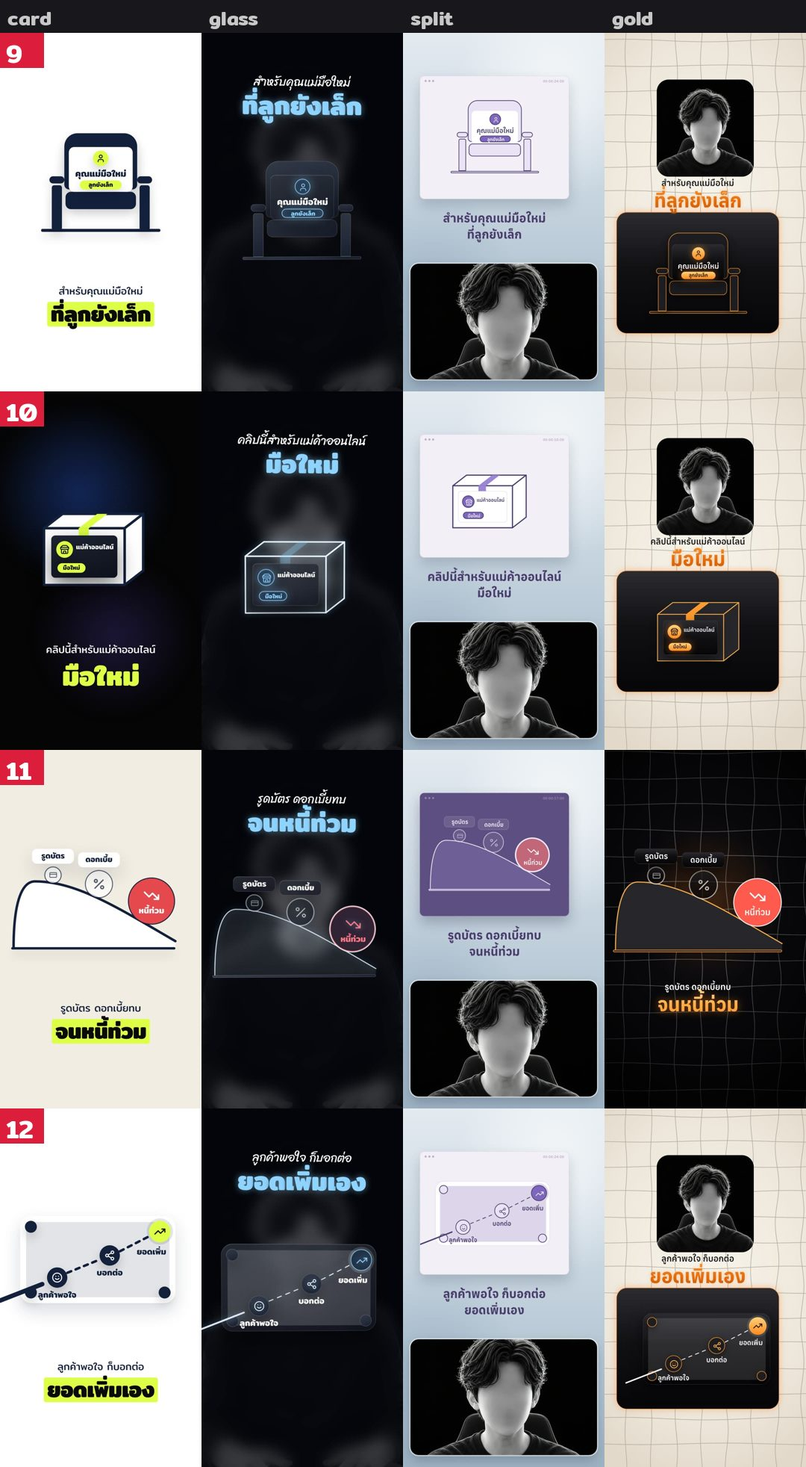
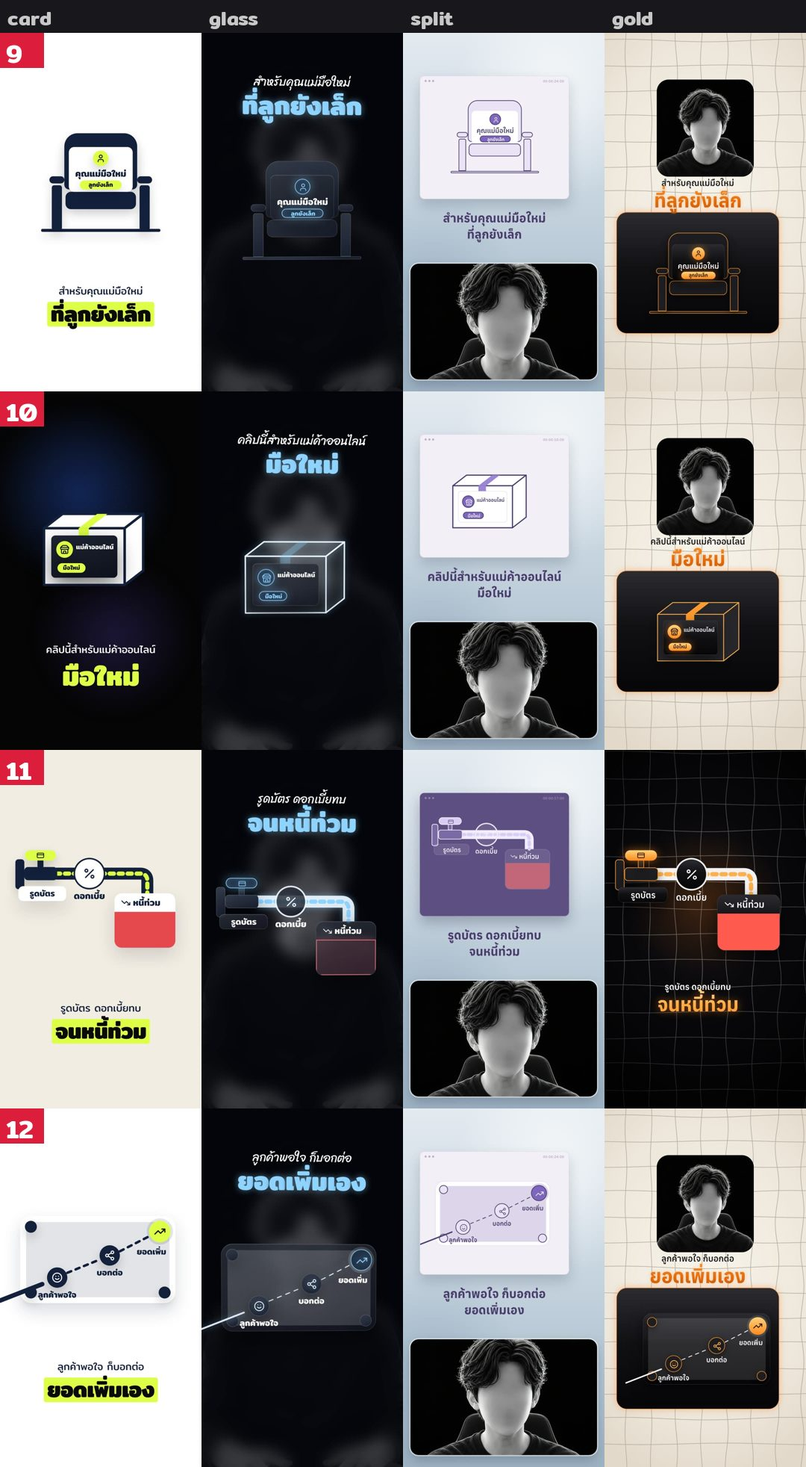
Round 10: keep the tap and pipe, drop the seesaw (it looked like the scale)
Claude-Session: https://claude.ai/code/session_014abtgu7QfzJRsiTAHFd39E

Changed region(s): [[0.0, 0.5591, 0.4889, 0.6833], [0.7639, 0.5591, 0.9778, 0.6522], [0.5194, 0.5591, 0.7028, 0.6212]]

diff --git a/cutpack/DECISIONS.md b/cutpack/DECISIONS.md
@@ -184,7 +184,7 @@
   - **ภาพนิ่งรอบที่ 10 ส่งแล้ว รอ Friend เลือก (2026-11-11):** 20 ร่าง × 4 สไตล์ (`engine/uni/sketches/r10.js`, แผ่น `library/uni-test/round10_sketches_1.jpg` … `_5.jpg`) ไอเดีย: ขั้นตอน = ตัวต่อซ้อนเป็นตึก (`tower`) · เบี้ยบนกระดานเกม (`board`) / คำถาม = โพลในสตอรี่ (`poll`, ต้องมี options 2 ตัว) · หลอดไฟมี ? (`bulb`) / คำเตือน = ป้ายระวังพื้นลื่น (`wetfloor`) · เหยื่อบนเบ็ดตกปลา (`hook`) / เวลา = นาฬิกาจับเวลา (`stopwatch`) · ต้นไม้จนออกผล (`tree`) / คน = เก้าอี้มีป้ายจอง (`seat`) · กล่องพัสดุจ่าหน้า (`parcel`) / เหตุกับผล = ก้อนหิมะกลิ้งลงเนิน (`snowball`) · ลูกพูลชนลงหลุม (`pool`) / นิยาม = บัตรคำร้อยห่วง (`flash`) · เครื่องพิมพ์ฉลาก (`labeler`) / ไล่รายการ = โฟลเดอร์แอป (`folder`) · กล่องเครื่องมือถาดกาง (`toolbox`) / เล่าเหตุการณ์ = ม่านเวที (`curtain`) · วิดีโอย้อนกลับ (`rewind`) / ความรู้สึก = ตัวคนเติมสี (`fill`) · แถบเลื่อนอารมณ์ (`slider`) · ตารางที่ส่ง Friend ก่อนทำภาพมี "กับดักหนู" Claude เปลี่ยนเป็นเบ็ดตกปลาเพราะภาพนิ่งของกับดักมองไม่ออก (บอก Friend แล้ว)
   - **ต้นไม้ (B09 `tree`) Friend 2026-11-11: "ต้นไม้มันไม่เหมือนต้นไม้เลย ตั้งใจทำหน่อย"** → วาดใหม่แล้ว: พุ่มใบหยักสีเน้น ลำต้นโคนบานแตกกิ่ง ผลกลมมีขั้วกับใบ · Claude ตรวจร่างอื่นด้วยวิธีเดียวกัน (ปิดชื่อแล้วดูว่าเห็นเป็นอะไร) เจออีก 2 ร่างที่ดูไม่ออก วาดใหม่ด้วย: เก้าอี้ (`seat`) เป็นเก้าอี้โรงหนังมีพนักพิง เบาะ ที่วางแขน · กล่องเครื่องมือ (`toolbox`) มีหูหิ้ว แขนถาดคู่ขนานกับหมุด · ส่งแผ่น 2 3 4 ใหม่ให้ Friend ดู รอคำตอบ (LESSONS 45)
   - **แก้อีก 11 ข้อ (Friend 2026-11-11 ถามว่า "มีอันไหนที่คิดว่ายังไม่ดีพออีกมั้ย" Claude เสนอ 11 ข้อพร้อมวิธีแก้ Friend: "แก้เลย"):** ดูไม่ออก = 11 ก้อนหิมะ (วาดเนินเขามีหิมะ รอยกลิ้งกว้างขึ้น) · 1 ตัวต่อ (ปุ่มทุกก้อน ใหญ่ขึ้น เหลื่อมกัน) · 16 กล่องเครื่องมือ (แก้อีกรอบ ถ้ายังไม่ชัดเสนอไอเดียอื่น) · 2 กระดานเกม (ใส่แผ่นกระดานกับทางเดิน) / ภาพเล็กโล่ง = 3 โพล · 18 วิดีโอย้อนกลับ · 20 แถบเลื่อนอารมณ์ · 6 เบ็ดตกปลา (ขยายให้เต็มกรอบ) / ของเยอะหรือคล้ายแบบเดิม = 12 โต๊ะพูล (ลดของ ผลไปอยู่ที่หลุม) · 15 โฟลเดอร์ (ใส่หน้าจอมือถือ) · 13 บัตรคำ (ห่วงกับบัตรซ้อนเด่นขึ้น) → **แก้ครบ 11 ข้อแล้ว** ตัวตรวจสีผ่านทั้ง 4 สไตล์ ส่งแผ่น 1–5 ใหม่ให้ Friend รอเลือกว่าเก็บ/ลบข้อไหน
-  - **ลบก้อนหิมะ (B12 `snowball`) Friend 2026-11-11 ดูฉบับแก้แล้ว: "ไม่ชอบอันนี้ design ใหม่ครับ"** → ลบออกจาก `sketches/r10.js` ห้ามทำกลับมา · ออกแบบร่างเหตุกับผลใหม่แทน 1 ร่าง (Claude ทำภาพให้เลือก 2 แบบ) → ทำแล้ว แผ่น `library/uni-test/round10_b12_choice_1.jpg`: แบบ 1 กระดานหก (`seesaw`) ของหล่นลงฝั่งหนึ่ง ดีดอีกชิ้นลงตะกร้า · แบบ 2 ก๊อกน้ำกับท่อ (`pipe`) น้ำไหลผ่านวาล์วไปเติมแท็งก์ (ผลไม่ดีเป็นน้ำสีแดง = ท่วม) · รอ Friend เลือก
+  - **ลบก้อนหิมะ (B12 `snowball`) Friend 2026-11-11 ดูฉบับแก้แล้ว: "ไม่ชอบอันนี้ design ใหม่ครับ"** → ลบออกจาก `sketches/r10.js` ห้ามทำกลับมา · ออกแบบร่างเหตุกับผลใหม่แทน 1 ร่าง (Claude ทำภาพให้เลือก 2 แบบ) → ทำแล้ว แผ่น `library/uni-test/round10_b12_choice_1.jpg`: แบบ 1 กระดานหก (`seesaw`) ของหล่นลงฝั่งหนึ่ง ดีดอีกชิ้นลงตะกร้า · แบบ 2 ก๊อกน้ำกับท่อ (`pipe`) น้ำไหลผ่านวาล์วไปเติมแท็งก์ (ผลไม่ดีเป็นน้ำสีแดง = ท่วม) · Friend ถามว่า "ไม้กระดก มันซ้ำกับตราชั่งมั้ย" Claude เทียบแล้วซ้ำ (ร่างเล็กของตาชั่ง B03 `scale` เป็นไม้เอียงบนสามเหลี่ยมเหมือนกัน และคนดูอาจอ่านเป็นการเปรียบเทียบ) **Friend 2026-11-11: "ตัดกระดานหก เก็บก๊อกน้ำ"** → ข้อ 11 ของรอบนี้คือก๊อกน้ำ (`pipe`) · ลบกระดานหก (`seesaw`) แล้ว ห้ามทำกลับมา และห้ามทำร่างไม้เอียงบนจุดหมุนในหมวดอื่นนอกจากเปรียบเทียบ
 - **B14 ประโยคเด็ดมีภาพด้วย (Friend 2026-11-08: "ทำ B14 แบบมี motion graphics ในเลโก้เลยครับ"):** เดิมระบบเลโก้ตั้งให้ B14 เป็นตัวหนังสือล้วน (Claude ตั้งเอง ไม่ได้มาจาก Friend) ตอนนี้มีร่างเหมือนหมวดอื่น ใบประกอบช่องเดียว `idea {icon, label?}` (ใจความที่อยากให้จำ ป้าย 1–2 คำ) ประโยคอยู่ในซับเท่านั้น
 - **กฎการจัดวางและจังหวะของร่าง (Friend 2026-11-08 หลังดูรอบที่ 3):** ใช้กับทุกร่างต่อจากนี้ (1) ของที่เชื่อมสองสิ่ง (จุดความคิด เส้น ลูกศร) ต้องอยู่บนแนวตรงระหว่างสองสิ่งนั้นพอดี "ไอคอนมันต้องตรงกับจุดสิ" (2) แสง วงกระเพื่อม และคำ ที่เป็นของสิ่งที่กำลังเคลื่อน ต้องขึ้นหลังสิ่งนั้นมาถึงที่แล้ว "วงกลมขึ้นมาก่อนที่ไอคอนจะเลื่อนขึ้นไปได้ไง" (3) เครื่องหมายระหว่างสองสิ่ง (=, →) อยู่กึ่งกลางช่องว่างระหว่างสองสิ่ง (4) คำใต้ไอคอนอยู่กึ่งกลางไอคอน และคำของของในแถวเดียวกันอยู่บรรทัดเดียวกัน (คำกึ่งกลางใน kit ใช้กล่องกว้างจัดกลาง ไม่ใช้ transform ที่ท่าเข้าเขียนทับ) (5) คลื่นหรือวงกระเพื่อมรอบของชิ้นไหน ต้องเป็นทรงเดียวกับชิ้นนั้น (การ์ดสี่เหลี่ยมมุมมนก็เป็นสี่เหลี่ยมมุมมน ปุ่มก็ทรงปุ่ม ของกลมก็วงกลม) ออกจากขอบของชิ้นนั้นจากด้านหลัง ไม่ผ่านไอคอนหรือคำ และพุ่งออกเร็วแล้วจาง (Friend: "Effect วงกลมมันแปลกๆอะ" กับวงกลมที่วิ่งผ่านการ์ดพลิก) ใช้ `R1.ripple` วงกลม `R1.pulse` ใช้เฉพาะแรงกระแทกที่ไม่ใช่ของชิ้นไหน (โดมิโนล้มถึงพื้น ตราประทับลง แสงไฟเตือน) (6) ไอคอนที่เปลี่ยนเป็นสีเน้น (ติดไฟ) ต้องเห็นไอคอนตลอด ไม่จางไขว้จนไอคอนกลืนกับพื้น ใช้ `LG.lightUp` (การ์ดทึบโผล่กลางแล้วขยายทับ) ในร่างใหม่ทุกร่าง ร่างเก่าที่ใช้ `LG.light` คงไว้ (Friend 2026-11-08: ร่างเก่า "ตามนุษย์มองแทบไม่ทันครับ" แต่ "อันต่อๆไปที่จะทำในอนาคตก็แก้ปัญหานี้ด้วยนะ") (7) ของที่ซ้อนแทนของเดิม (ไอคอนติดไฟ คำตอบแทนฟองคำถาม) ต้องอยู่ตำแหน่งเดียวกัน ขนาดเดียวกัน และขยับพร้อมกันพอดี ของเดิมต้องไม่โผล่เป็นขอบ ถ้าของล่างลอยขึ้นลง ของบนต้องลอยเหมือนกัน หรือเอาของล่างออกเมื่อถูกบังหมดแล้ว (Friend 2026-11-08: "ไอคอนมันเหลื่อมๆนิดนึงเหมือนมันทิ้งขอบสีขาวไว้") (8) สัญลักษณ์สีแดง (ตราห้าม ป้ายเตือน กากบาท) ต้องไม่อยู่บนของที่เป็นสีแดง ของต้องเป็นสีปกติของร่าง ให้สัญลักษณ์เป็นสีแดงอย่างเดียว (Friend 2026-11-08: "สัญลักษณ์มันเป็นสีเดียวกับไอคอนซึ่งมันจะทำให้ไม่สวย") โค้ด: `calm()` ใน `scenes/cats.js` เปลี่ยนโทนแดงที่ AI ใส่ให้ของเป็นสีปกติ (`main`) ในหมวดที่ร่างมีสัญลักษณ์แดง (B03 B04 B07) (10) สีของทุกชิ้นต้องไม่กลืนกับพื้นข้างหลัง สีเดียวกันหรือคล้ายกันจนมองยากก็ไม่ได้ (Friend 2026-11-08: "ตอนออกแบบให้ดูเรื่องสีด้วยอย่าให้มันกลืนกัน สีที่มันคล้ายๆกันแล้วทำให้มองยากก็ไม่ได้เหมือนกัน") ตรวจด้วย `check_contrast.js` (11) ของโปร่งแสงที่ต่อกัน (ถนนที่ตัดกัน) ต้องเป็นเนื้อเดียว ไม่เห็นรอยซ้อน (Friend 2026-11-10: "ไม่อยากให้เห็นความทับซ้อนของเส้นถนนอะ ทำให้มันเป็นเนื้อเดียวกันได้ไหม") (12) ของที่แบ่งเป็นสองส่วน (รูปฉีก) ไม่มีเศษของอีกส่วนติดมาที่รอยแบ่ง (Friend 2026-11-10: "มันมีขอบสีขาวๆ ติดมานิดนึง") (13) ร่างเดียวกันต้องหน้าตาเหมือนกันทุกสไตล์ ลวดลายที่หายไปในบางสไตล์ใช้ไม่ได้ (Friend 2026-11-10: "ทำไมตะกร้ามันไม่เหมือนอีก 2 สไตล์") (14) ของที่วางบนของอีกชิ้นต้องสีไม่กลืนกันในทุกสไตล์ (Friend 2026-11-10: "สีไอคอนกับตะกร้ามันกลืนกัน") (15) เส้นวาดครั้งเดียว ไม่มีเส้นขอบซ้อนกันหลายชั้น โดยเฉพาะสไตล์กระจก (Friend 2026-11-10: "สไตล์ 2 ดูเรื่องเส้นด้วย") (9) ตาชั่ง: ฝั่งที่ชนะเป็นสีเน้น ฝั่งที่แพ้เป็นสีปกติ เมื่อ AI ไม่ได้กำหนดสีเอง (Friend 2026-11-08: "แก้ตราชั่ง" เดิมฝั่งซ้ายเป็นสีเน้นเสมอ)
 - **สไตล์แบ่งจอ จังหวะคนพูดย่อลงกรอบล่าง (Friend 2026-11-08: "แก้ไขจังหวะที่คลิปย่อลงมาด้านล่างหน่อยครับ"):** กรอบวิ่งตามขอบวิดีโอที่กำลังย่อ (ไม่รอที่จุดสุดท้ายแล้วตัดผ่านหน้า), หน้าต่างกับซับขึ้นหลังหน้าคนพูดลงพ้นตำแหน่งของมันแล้ว และหายก่อนคนพูดขยายกลับ ห้ามมีของทับหน้าระหว่างย่อหรือขยาย (`styles/split.js`)

diff --git a/cutpack/HANDOFF.md b/cutpack/HANDOFF.md
@@ -41,7 +41,7 @@ git checkout -B <สาขาที่ session ใหม่ได้รับ> o
 2. **คิดไอเดียตามวิธีออกแบบฉากใน skill `talking-head-motion`** (`.claude/skills/talking-head-motion/SKILL.md` หัวข้อ "หลักที่ทำให้งานออกมาโปร" และ `references/scene-library.md` หัวข้อ "ออกแบบฉากใหม่"): ของหลัก 1 ชิ้น (การ์ด รูปทรงเส้น หรือหน้าจอแอป) + ขยับที่มีความหมาย 1 อย่าง (เติม วาด ซ้อน หมุน) ตรงคำสำคัญแล้วค้างนิ่ง · ห้ามของตกแต่ง · ห้ามวนซ้ำเร็ว · "ถ้าปิดเสียง ภาพนี้ยังสื่อไหม"
 3. **รสนิยมของ Friend** (Friend ยืนยัน "โอเค") **ใส่คนในร่างได้** (Friend 2026-11-11: "ไม่เอาคน" ใช้แค่กับไอเดียเติมรอบที่ 9 ไม่ใช่รสนิยม LESSONS 44): ชอบของในชีวิตประจำวันที่เห็นแล้วนึกถึงความหมายทันที · มีกลไกทำงานแล้วจบที่ผลลัพธ์ · หน้าตาแบบรอบ 1–8 (การ์ดมน สีเน้น ตัวหนังสือชัด) · โมเดิร์น มินิมอลนิดหน่อยแต่ไม่โล่ง (ของหลักใหญ่เต็มกรอบ) · หลากหลาย / ไม่ชอบ: แบบเดิมซ้ำ (ไอคอนเรียง) · เปรียบเปรยไกล ("หอย อะ มันเกี่ยวอะไร") · ภาพโล่ง · สีกลืน · ของที่ความหมายไม่ตรงหมวด · ลูกเล่นกับตัวหนังสือหรือตัวเลขล้วน
 4. **reference ที่ Friend ส่งคือตัวอย่างเนื้อหาและการเล่าเรื่องของภาพ ไม่ใช่สไตล์** สีและหน้าตามาจาก skill ของแต่ละสไตล์เสมอ (LESSONS 42)
-5. **ร่างที่ลบแล้ว ห้ามทำกลับมา:** B16 `letters` · B13 `pearl` · B01 `drop` · B09 `train` · B20 `bridge` · B21 `globe` · B01 `thermo` · B02 `cup` `lift` · B14 `plane` `chalk` · B08 `hoop` · B15 `bell` `ticket` (และ B07 `tape` จากแชทก่อน) · B12 `snowball` (รอบที่ 10)
+5. **ร่างที่ลบแล้ว ห้ามทำกลับมา:** B16 `letters` · B13 `pearl` · B01 `drop` · B09 `train` · B20 `bridge` · B21 `globe` · B01 `thermo` · B02 `cup` `lift` · B14 `plane` `chalk` · B08 `hoop` · B15 `bell` `ticket` (และ B07 `tape` จากแชทก่อน) · B12 `snowball` `seesaw` (รอบที่ 10)
 
 ### งานถัดไป
 1. **รอบที่ 10 (แชท `ccr-e630b241-381wt9`): ภาพนิ่ง 20 ร่าง × 4 สไตล์ ส่ง Friend แล้ว รอเลือก** ไฟล์ `engine/uni/sketches/r10.js` แผ่น `library/uni-test/round10_sketches_1.jpg` … `_5.jpg` (ทำซ้ำ: `EXTRA=$PWD/sketches/r10.js bash tools/stills.sh <งาน> <ผล> "card glass split gold" "<ฉาก@index ตาม README รอบที่ 10>" 3.6` แล้ว `python3 tools/sheet4.py <ผล> <ชื่อแผ่น> "<ฉาก…>"`) · ตัวตรวจสีรับ `EXTRA` แล้ว (ผ่านทั้ง 4 สไตล์) · Friend เลือกแล้วค่อยเขียนการเคลื่อนไหวใน `scenes/lego_r9c.js` หรือชื่อที่โหลดหลัง `lego_r9b.js` (ข้อ 5 ด้านล่าง)

diff --git a/cutpack/engine/uni/README.md b/cutpack/engine/uni/README.md
@@ -116,7 +116,7 @@
 
 ## รอบที่ 10 (2026-11-11): ภาพนิ่ง 20 ร่าง ครบ 4 สไตล์ (รอ Friend เลือก)
 ที่มา: Friend "เริ่มรอบ 10 เลย ทำรูปออกมาให้ดูก่อนนะอยากเห็นของทุกสไตล์เลยอ่ะทั้ง 4 สไตล์" ไฟล์ `sketches/r10.js` (นอก `scenes/` ยังไม่เข้าระบบเลือกร่าง) คิดตามวิธีออกแบบฉากใน skill talking-head-motion · ใส่คนได้แล้ว
-- B04 ตัวต่อ (`tower`) · กระดานเกม (`board`) / B06 โพล (`poll`, fits: options 2 ตัว) · หลอดไฟ ? (`bulb`) / B07 ป้ายพื้นลื่น (`wetfloor`) · เบ็ดตกปลา (`hook`) / B09 นาฬิกาจับเวลา (`stopwatch`) · ต้นไม้ (`tree`) / B10 เก้าอี้จอง (`seat`) · กล่องพัสดุ (`parcel`) / B12 ก้อนหิมะ (`snowball`) · โต๊ะพูล (`pool`) / B16 บัตรคำ (`flash`) · เครื่องพิมพ์ฉลาก (`labeler`) / B17 โฟลเดอร์แอป (`folder`) · กล่องเครื่องมือ (`toolbox`) / B18 ม่านเวที (`curtain`) · วิดีโอย้อนกลับ (`rewind`) / B19 ตัวคนเติมสี (`fill`) · แถบเลื่อนอารมณ์ (`slider`)
-- ฉากที่ใช้ทำภาพ: `s10.shop.tower@0 s10.shop.board@1 s10.buy.poll@2 s10.quiet.bulb@0 s10.loan.wetfloor@1 s10.cheap.hook@2 s10.run.stopwatch@0 s10.grow.tree@1 s10.mom.seat@2 s10.seller.parcel@0 s10.debt.snowball@1 s10.share.pool@2 s10.fomo.flash@0 s10.sub.labeler@1 s10.costs.folder@2 s10.cafe.toolbox@0 s10.dad.curtain@1 s10.quit.rewind@2 s10.proud.fill@0 s10.tired.slider@1`
+- B04 ตัวต่อ (`tower`) · กระดานเกม (`board`) / B06 โพล (`poll`, fits: options 2 ตัว) · หลอดไฟ ? (`bulb`) / B07 ป้ายพื้นลื่น (`wetfloor`) · เบ็ดตกปลา (`hook`) / B09 นาฬิกาจับเวลา (`stopwatch`) · ต้นไม้ (`tree`) / B10 เก้าอี้จอง (`seat`) · กล่องพัสดุ (`parcel`) / B12 ก๊อกน้ำกับท่อ (`pipe`, แทนก้อนหิมะที่ Friend ลบ) · โต๊ะพูล (`pool`) / B16 บัตรคำ (`flash`) · เครื่องพิมพ์ฉลาก (`labeler`) / B17 โฟลเดอร์แอป (`folder`) · กล่องเครื่องมือ (`toolbox`) / B18 ม่านเวที (`curtain`) · วิดีโอย้อนกลับ (`rewind`) / B19 ตัวคนเติมสี (`fill`) · แถบเลื่อนอารมณ์ (`slider`)
+- ฉากที่ใช้ทำภาพ: `s10.shop.tower@0 s10.shop.board@1 s10.buy.poll@2 s10.quiet.bulb@0 s10.loan.wetfloor@1 s10.cheap.hook@2 s10.run.stopwatch@0 s10.grow.tree@1 s10.mom.seat@2 s10.seller.parcel@0 s10.debt.pipe@1 s10.share.pool@2 s10.fomo.flash@0 s10.sub.labeler@1 s10.costs.folder@2 s10.cafe.toolbox@0 s10.dad.curtain@1 s10.quit.rewind@2 s10.proud.fill@0 s10.tired.slider@1`
 - แผ่นรวม `tools/sheet4.py` (4 ร่างต่อแผ่น 4 สไตล์วางข้างกัน) · ตัวตรวจสี `EXTRA=$PWD/sketches/r10.js node check_contrast.js <สไตล์> <งาน> <ฉาก…>` ตรวจภาพร่างได้แล้ว
 - ข้อควรรู้: ไอคอนบนพื้นทึบ `u-main`/`u-neg` ต้องไม่ใช้คลาส `u-label` (สีคำทับสีพื้น) ใช้ `S10.inkIco` ให้สีตามพื้น · ของที่มีคำต้องเป็นการ์ดหรือพื้นสีเน้นเสมอ (รูปทรงพิเศษใช้ `clip-path` บนการ์ด เช่น หลอดไฟ ป้ายพื้นลื่น)
